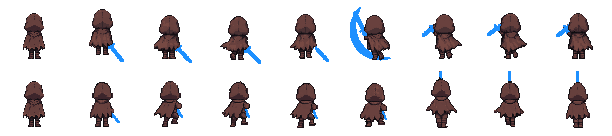
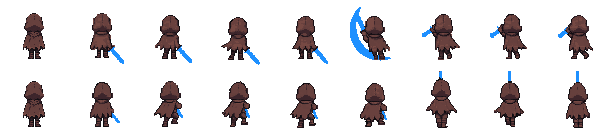
feat: 후면 2타도 측면·정면과 같은 동작으로
3타와 같은 방법: 정면 8장과 장마다 같은 ChatGPT 그림(발을 디딘 채 쳐올려
왼쪽 어깨에서 칼을 왼쪽으로)을 PixelLab 으로 8장 함께 화풍 입히고 1타 색감에
맞춤. 칼 자리 표와 프레임 보정 2타 줄 갱신.

diff --git a/game/config.py b/game/config.py
@@ -236,8 +236,9 @@ PLAYER_ATTACK_SWORD_BACK = (
      (38, 28, 111, True), (47, 27, -90, True, 0), (56, 43, -29, True), (54, 43, -29, True)),
     # 2·3타 (같은 날 사용자: 2·3타 진행): 1타와 같은 방법. ChatGPT 가 좌우 뒤집은 정면 8장을 뒤에서 본 모습으로 그림 → 8장 함께 화풍 입힘.
     # 2타: 오른쪽 아래로 늘어뜨림 → 5번째 쳐올리는 잔상(몸 뒤) → 왼쪽 어깨 위. 3타: 오른쪽 허리로 당김 → 6번째 찌른 칼날이 후드 위로 곧게.
-    ((54, 39, -53, True), (53, 41, -48, True), (53, 43, -46, True), (54, 41, -47, True),
-     (38, 29, 116, True, 0), (39, 23, 135, True), (38, 21, 138, True), (39, 22, 136, True)),
+    # 2타 3차 (2026-11-20 사용자: 측면·정면과 일관성): 정면 8장과 장마다 같은 그림 (발을 디딘 채 쳐올려 왼쪽 어깨에서 칼을 왼쪽으로)
+    ((53, 42, -49, True), (53, 41, -48, True), (52, 43, -47, True), (53, 42, -48, True),
+     (38, 29, 116, True, 0), (48, 20, -148, True), (48, 20, -146, True), (46, 17, -136, True)),
     # 3타 3차 (2026-11-20 사용자: 측면·정면 찌르기와 일관성): 정면 8장과 장마다 같은 그림 (똑바로 서서 오른쪽 허리로 당김 → 발 모으고 찌름)
     ((49, 33, -51, True), (47, 26, -59, True), (50, 24, -70, True), (49, 25, -68, True),
      (50, 26, -67, True), (47, 24, 90, True), (47, 24, 90, True), (47, 24, 90, True)),
@@ -256,8 +257,8 @@ PLAYER_ATTACK_FRAME_ENDS_BACK = (
 PLAYER_ATTACK_FRAME_SHIFTS_BACK = (
     # 1타: 1~5 들어 올림 (후드 48), 7·8 낮은 마무리 (후드 50)
     ((0, 0), (0, 0), (-1, 0), (0, 0), (1, 0), (0, 0), (-1, 0), (1, 0)),
-    # 2타: 1~4 칼 늘어뜨림 (후드 48, 1번은 4 픽셀 떠 있었음), 6~8 칼을 왼쪽 위로 든 채 (후드 48)
-    ((0, -4), (1, 0), (0, 1), (1, 0), (0, 1), (-2, 0), (0, 0), (0, 0)),
+    # 2타 (2026-11-20 3차 그림): 1번은 발이 1 픽셀 뜨고 3·5·6번은 1 픽셀 묻힘, 6~8 은 몸 전체가 오른쪽으로 2(8번은 1) 픽셀
+    ((0, -1), (0, 0), (0, 1), (0, 0), (0, 1), (-2, 1), (-2, 0), (-1, 0)),
     # 3타 (2026-11-20 3차 그림): 후드 가운데는 모두 48, 4·6·8번만 발이 1 픽셀 묻힘
     ((0, 0), (0, 0), (0, 0), (0, 1), (0, 0), (0, 1), (0, 0), (0, 1)),
 )

diff --git a/assets/concepts/pixellab/player_import/build_remake_preview.py b/assets/concepts/pixellab/player_import/build_remake_preview.py
@@ -90,9 +90,10 @@ OVERRIDES = {
     # 후면 2·3타 2차 (2026-11-18, ChatGPT 가 좌우 뒤집은 정면 8장을 뒤에서 본 모습으로 그림 → 8장 함께 화풍 입힘,
     # attack_back_v3_68.png). 보이는 파란 칼날의 끝에서 칼 길이(24)만큼 몸 쪽이 손. 칼은 늘 몸 뒤.
     # 2타: 1~4 오른쪽 아래로 늘어뜨림 → 5 쳐올리는 잔상(칼 안 그림) → 6~8 왼쪽 어깨 위
-    ('backv3_2', 1): (40, 42, -53, True), ('backv3_2', 2): (39, 44, -48, True), ('backv3_2', 3): (39, 46, -46, True),
-    ('backv3_2', 4): (40, 44, -47, True), ('backv3_2', 5): (24, 32, 116, True, 0), ('backv3_2', 6): (25, 26, 135, True),
-    ('backv3_2', 7): (24, 24, 138, True), ('backv3_2', 8): (25, 25, 136, True),
+    # 3차 (2026-11-20 사용자: 측면·정면과 일관성) 정면 8장과 장마다 같은 그림. 칼날이 두꺼워 estimate 의 너비 한도를 6 으로 어림.
+    ('backv3_2', 1): (39, 45, -49, True), ('backv3_2', 2): (39, 44, -48, True), ('backv3_2', 3): (38, 46, -47, True),
+    ('backv3_2', 4): (39, 45, -48, True), ('backv3_2', 5): (24, 32, 116, True, 0), ('backv3_2', 6): (34, 23, -148, True),
+    ('backv3_2', 7): (34, 23, -146, True), ('backv3_2', 8): (32, 20, -136, True),
     # 3타: 1~5 오른쪽 허리로 당김 (칼끝만 보임) → 6~8 찌른 칼날이 후드 위로 곧게
     # 다시 (같은 날 사용자: 2타 6~8 칼 각도, 3타 당김·찌르기 자세가 이상함): 2타 6~8 은 쳐올린 칼이 왼쪽 어깨 위에서 왼쪽 위를 향함,
     # 3타 1~5 는 칼날이 몸 밖으로 나오는 자리 조금 안쪽을 손으로 잡아 칼을 온 길이로(손잡이는 몸 속), 6~8 은 찌른 칼날이 후드 위로 길게.

diff --git a/assets/concepts/pixellab/player_import/build_attack_back_v3.py b/assets/concepts/pixellab/player_import/build_attack_back_v3.py
@@ -24,7 +24,7 @@ import build_remake_preview as b  # noqa: E402
 KIT = os.path.join(HERE, 'attack_back_kit')
 GAME = os.path.normpath(os.path.join(HERE, '..', '..', '..', 'images', 'player'))
 HITS = {
-    2: {'dir': 'hit2_v2', 'src': 'result_hit2_back.png',
+    2: {'dir': 'hit2_v3', 'src': 'result_hit2_back.png',  # 3차 (2026-11-20 사용자: 측면·정면과 일관성): 정면과 장마다 같은 그림
         # 쳐올리는 장(8장 중 번호)의 잔상: (원 중심 x, y, 반지름, 시작 각도, 끝 각도, 두께). 오른쪽 아래 → 왼쪽 위
         'swoosh': (5, (40, 30, 30, 70, 230, 7))},
     3: {'dir': 'hit3_v3', 'src': 'result_hit3_back_frontmatch.png', 'swoosh': None},  # 3차: 사용자가 받은 그림 중 정면과 장마다 같은 것

diff --git a/PRE-PRD.md b/PRE-PRD.md
@@ -97,6 +97,8 @@
     **후면 1타 순서 (같은 날 사용자 요청)**: 오른쪽 어깨에서 칼을 꺼내 → 머리 위로 넘겨 → 왼쪽 위에서 오른쪽 아래로 벰. 잔상은 몸 뒤.
     **후면 2·3타 다시 (같은 날 사용자 결정)**: 1타처럼 정면 8장을 같은 순간 뒤에서 본 모습(ChatGPT)으로 바꿈. 2타는 오른쪽 아래에서
     왼쪽 위로 쳐올림(잔상은 몸 뒤), 3타는 오른쪽 허리로 당겼다가 찌른 칼날이 후드 위로 곧게 보임. 박자는 정면과 같음.
+    **후면 2타 일관성 (같은 날 사용자 요청)**: 3타와 같은 방법으로, 받은 그림 중 정면 8장과 장마다 같은 것(1~4 똑바로 서서 칼을 오른쪽 아래로,
+    5 쳐올림, 6~8 발을 디딘 채 왼쪽 어깨에서 칼을 왼쪽으로)으로 바꿈. 예전 그림은 6~8 에서 다리가 걷듯 벌어졌음.
     **후면 3타 일관성 (2026-11-20 사용자 결정)**: 동작이 멋있는 것보다 측면·정면 찌르기와 같은 동작이어야 함. 받은 그림 중 정면 8장과
     장마다 같은 것(똑바로 서서 오른쪽 허리로 당김 → 발을 모으고 찌름, 팔은 몸에 가려지고 칼날만 후드 위로)으로 바꿈.
     ~~**후면 망토 명암**: 후면 공격 1~3타의 망토에 명암을 넣어 정면·측면과 대비를 맞춤.~~ → 후면에는 명암을 넣지 않음, 모든 후면 그림은 원래 색감 (같은 날 사용자 결정).
@@ -371,6 +373,7 @@
 
 | 날짜 | 내용 | 작성 |
 |---|---|---|
+| 2026-11-20 | 사용자 요청으로 후면 2타도 정면과 장마다 같은 그림으로 바꿈 (2.2) | Claude Code |
 | 2026-11-20 | 사용자 결정으로 후면 3타를 정면 찌르기와 장마다 같은 그림으로 바꿈 (측면·정면과 일관성) (2.2) | Claude Code |
 | 2026-11-20 | 사용자 결정으로 몬스터 어그로 시스템 (휴면·6칸·한 번에 한 마리·죽을 때까지·붉은 !) (2.4) | Claude Code |
 | 2026-11-20 | 사용자 요청으로 연습용 허수아비를 PixelLab 밀짚 더미로 (손상 단계·무너짐·용수철 흔들림) (2.2) | Claude Code |

diff --git a/TASKS.md b/TASKS.md
@@ -7,7 +7,7 @@
 
 | ID | 작업 | 상태 | 담당 | 브랜치 | 비고 |
 |---|---|---|---|---|---|
-| T-054 | 후면 3타를 측면·정면 찌르기와 일관되게 | 검토 중 | Claude Code | `claude/monster-aggro` | 정면 8장과 장마다 같은 ChatGPT 그림 → PixelLab 화풍 입힘(8장 함께) → 1타 색감 맞춤, 칼 자리 다시 어림 |
+| T-054 | 후면 2·3타를 측면·정면과 일관되게 | 검토 중 | Claude Code | `claude/monster-aggro` | 정면 8장과 장마다 같은 ChatGPT 그림 → PixelLab 화풍 입힘(8장 함께) → 1타 색감 맞춤, 칼 자리 다시 어림 |
 | T-053 | 몬스터 어그로 시스템 (휴면 → 깨어남, 한 번에 한 마리) | 검토 중 | Claude Code | `claude/monster-aggro` | 6칸·맞으면 깨어남, 죽을 때까지 유지, 골렘 휴면·깨어남 그림(PixelLab)·회색빛, 붉은 ! (D-054) |
 | T-052 | 연습용 허수아비를 PixelLab 밀짚 더미로 | 검토 중 | Claude Code | `claude/labyrinth-tileset` | 손상 3단계·무너지는 8장·부러진 밑동, 기둥 밑 축 용수철 흔들림·눌림·밀짚 부스러기, 튀어 오르며 다시 섬 (D-053) |
 | T-051 | 지하 미궁 맵 그림 (첫 스테이지) | 진행 중 | Claude Code | `claude/labyrinth-tileset` | 따뜻한 돌 미궁: 판석·모래 Wang 바닥, 3/4 벽(턱·모서리 명암), 단계 끊은 횃불 빛, 소품(B·C·I 막음, 바닥 장식), 솟은 벽 윗면(벽 뒤 인물 가림), 일렁이는 횃불 (D-052). 미궁 구조 남음 |

diff --git a/docs/HANDOFF.md b/docs/HANDOFF.md
@@ -23,7 +23,9 @@
   seed 7) → 1타 색감 맞춤 → `export_to_game.py`. 칼 자리는 `estimate_back_swords` 로 다시 어림해 `PLAYER_ATTACK_SWORD_BACK` 3타 줄과
   `PLAYER_ATTACK_FRAME_SHIFTS_BACK` 3타 줄(4·6·8번 발 1 픽셀) 갱신. 바뀐 게임 그림은 `back_3.png` 하나 (2타 시트 줄은 그대로).
 - 현재 상태: 테스트 297개 통과, 스모크 실행 정상. 실제 창으로는 확인하지 못함 (그리기 캡처로 측면·정면·후면 비교).
-- 남은 문제 / 다음 할 일: 후면 2타는 아직 2차(hit2_v2) 그림. 푸시·PR 보류 중.
+- 이어서 2타도 같은 방법 (사용자 요청): `hit2_v3/result_hit2_back.png`(정면과 장마다 같은 그림) → 화풍 입힘 → 칼 자리 다시 어림
+  (칼날이 두꺼워 estimate 의 너비 한도 6) → `back_2.png`, config 2타 칼 줄·프레임 보정 줄 갱신. 5번째 잔상 장은 예전 설정 그대로.
+- 남은 문제 / 다음 할 일: 푸시·PR 보류 중.
 
 ## 2026-11-20 — 몬스터 어그로 시스템 (Claude Code)
 - 브랜치 / 마지막 커밋: `claude/monster-aggro` (`claude/labyrinth-tileset` 위에서 시작) / 이 항목을 담은 커밋
